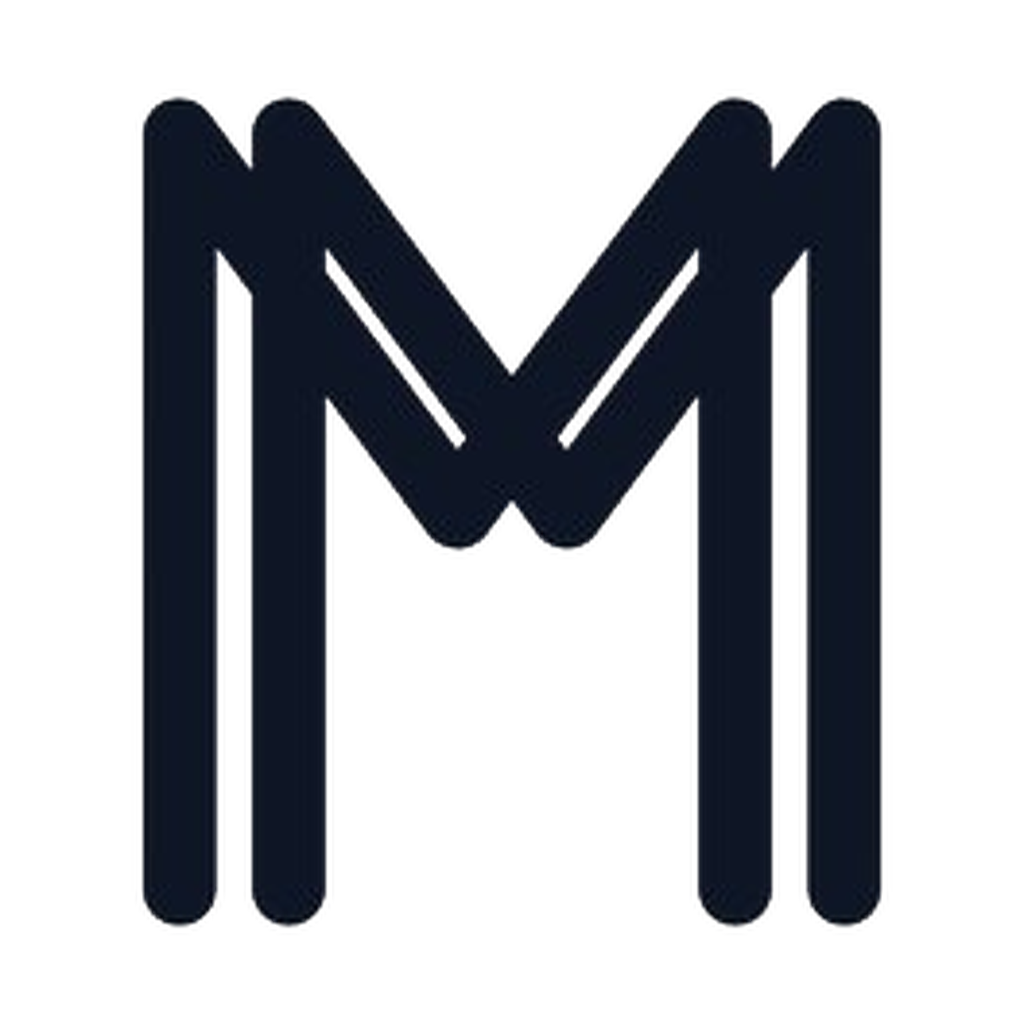
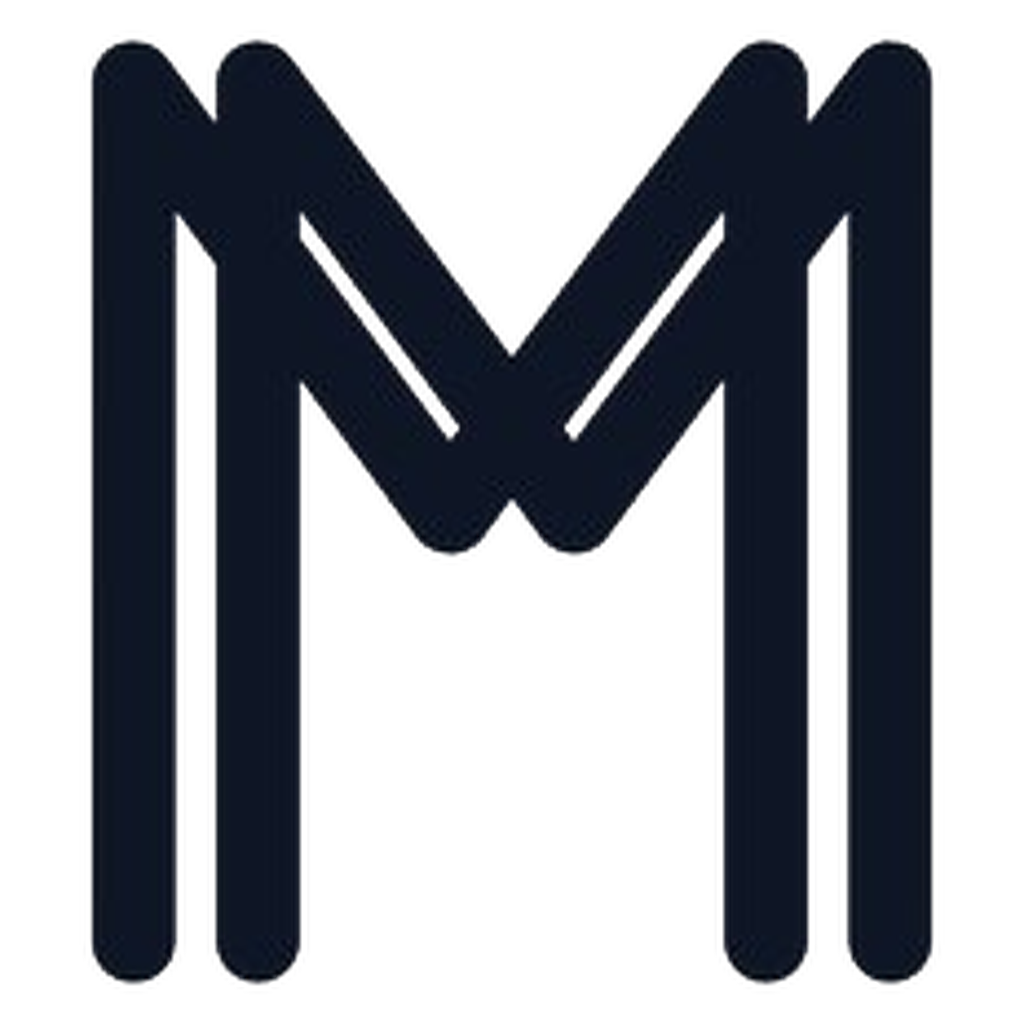
Tighten the mark crop and scale it properly in the badge

diff --git a/public/index.html b/public/index.html
@@ -18,7 +18,7 @@
   body { margin: 0; background: var(--bg); color: var(--text); font: 14px/1.5 -apple-system, BlinkMacSystemFont, "Segoe UI", Inter, sans-serif; }
   header { display: flex; align-items: center; gap: 14px; padding: 18px 24px; border-bottom: 1px solid var(--line); background: linear-gradient(180deg, #101721, #0b0f14); }
   .logo { width: 30px; height: 30px; border-radius: 8px; background: #f6f8fb; display: grid; place-items: center; box-shadow: 0 0 0 1px #ffffff1a inset; }
-  .logo img { width: 22px; height: 22px; display: block; }
+  .logo img { width: 23px; height: 23px; display: block; }
   h1 { font-size: 17px; margin: 0; letter-spacing: .2px; }
   .sub { color: var(--muted); font-size: 12px; }
   .pill { font: 12px var(--mono); padding: 3px 9px; border-radius: 999px; border: 1px solid var(--line); color: var(--muted); }

diff --git a/docs/index.html b/docs/index.html
@@ -20,7 +20,7 @@
   header.site { padding: 28px 0 8px; display: flex; align-items: center; gap: 12px; }
   .logo { width: 32px; height: 32px; border-radius: 9px; display: grid; place-items: center;
     background: #f6f8fb; box-shadow: 0 0 0 1px #ffffff1a inset; }
-  .logo img { width: 22px; height: 22px; display: block; }
+  .logo img { width: 25px; height: 25px; display: block; }
   header.site strong { font-size: 18px; letter-spacing: -0.01em; }
   header.site nav { margin-left: auto; display: flex; gap: 18px; font-size: 14px; color: var(--muted); }
   .hero { padding: 56px 0 28px; }

diff --git a/film/thumb.html b/film/thumb.html
@@ -40,7 +40,7 @@
   <img class="shot" src="../docs/console.png" alt="" />
   <div class="veil"></div>
   <div class="left">
-    <div class="mark"><img src="../public/mark-navy.png" alt="" style="width:68%;height:68%;display:block" /></div>
+    <div class="mark"><img src="../public/mark-navy.png" alt="" style="width:74%;height:74%;display:block" /></div>
     <h1>Let agents spend.<br /><em>On your terms.</em></h1>
     <p class="sub">Deterministic spend limits, single use human approvals and a hash chained audit trail for AI agents that pay with PayPal.</p>
     <div class="chips">

diff --git a/film/title.html b/film/title.html
@@ -37,7 +37,7 @@
 <body>
   <div class="grid"></div>
   <div class="wrap">
-    <div class="mark"><img src="../public/mark-navy.png" alt="" style="width:68%;height:68%;display:block" /></div>
+    <div class="mark"><img src="../public/mark-navy.png" alt="" style="width:74%;height:74%;display:block" /></div>
     <h1>Mandate</h1>
     <div class="rule"></div>
     <p class="tag">Spend controls, human approvals and an audit-grade ledger<br/>for <b>AI agents that pay with PayPal</b>.</p>

diff --git a/film/end.html b/film/end.html
@@ -29,7 +29,7 @@
 <body>
   <div class="box">
     <div class="top">
-      <div class="mark"><img src="../public/mark-navy.png" alt="" style="width:68%;height:68%;display:block" /></div>
+      <div class="mark"><img src="../public/mark-navy.png" alt="" style="width:74%;height:74%;display:block" /></div>
       <div>
         <h2>Mandate</h2>
         <div class="mono" style="color:#7f93a8">spend controls for agents that pay</div>
